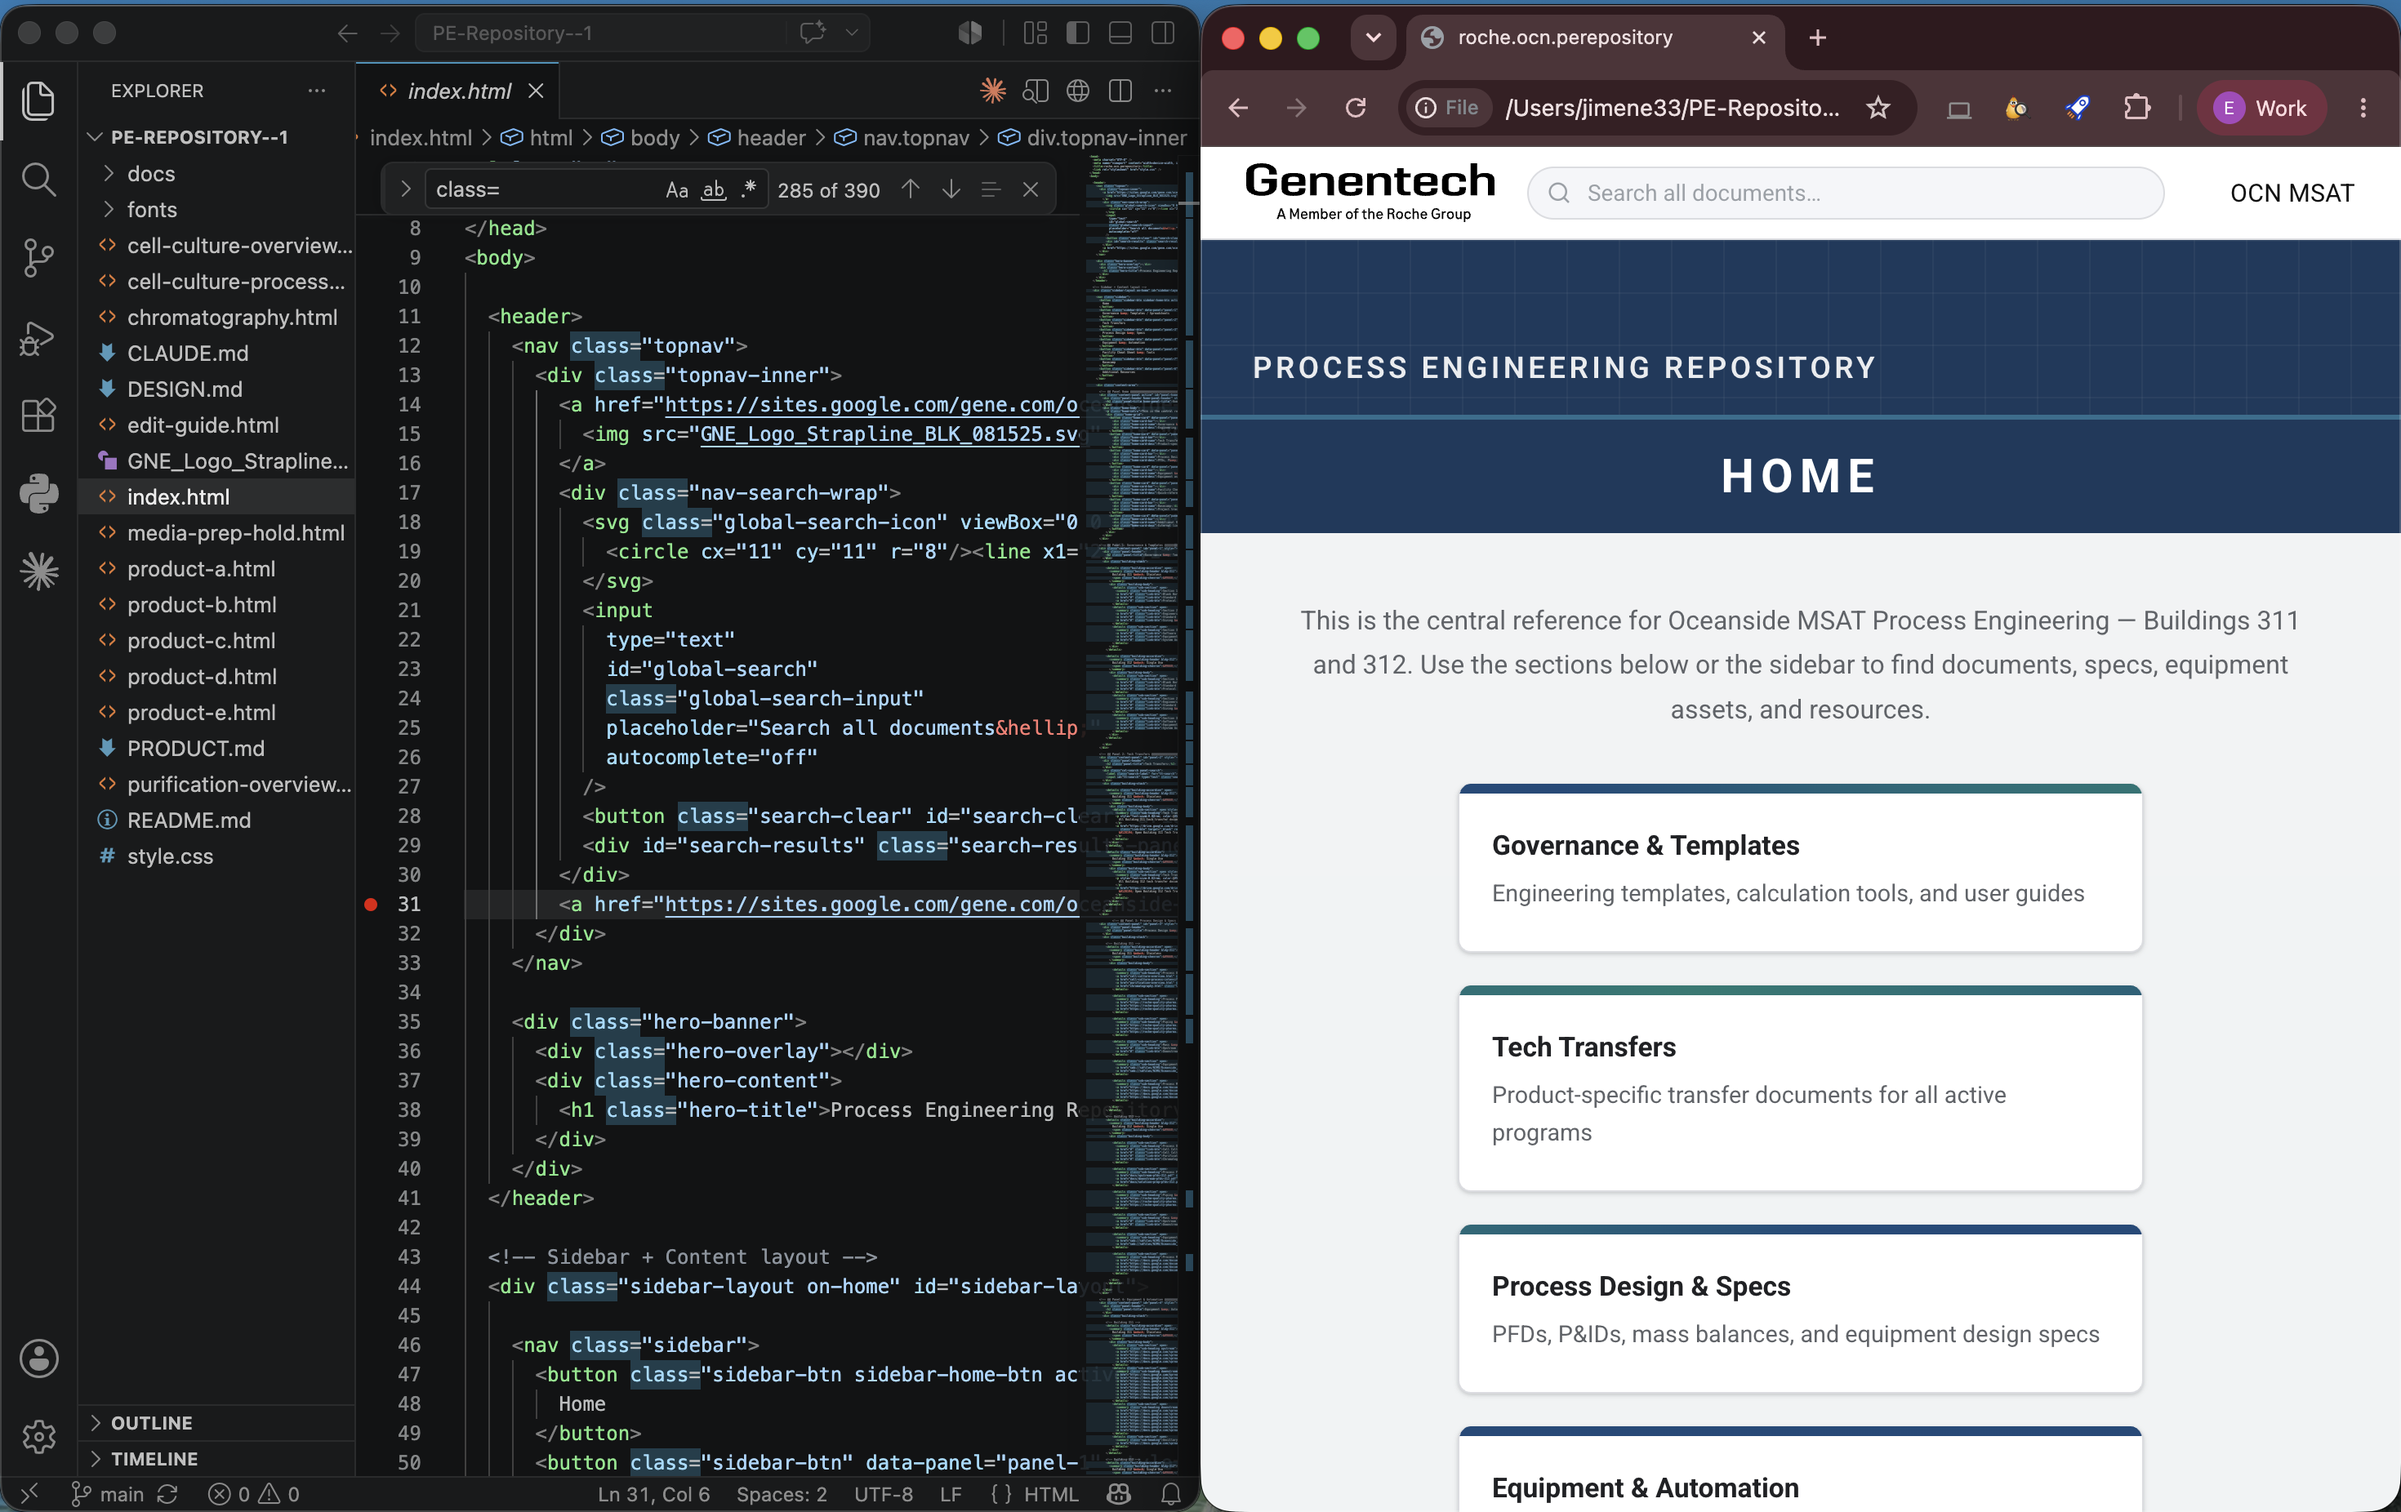
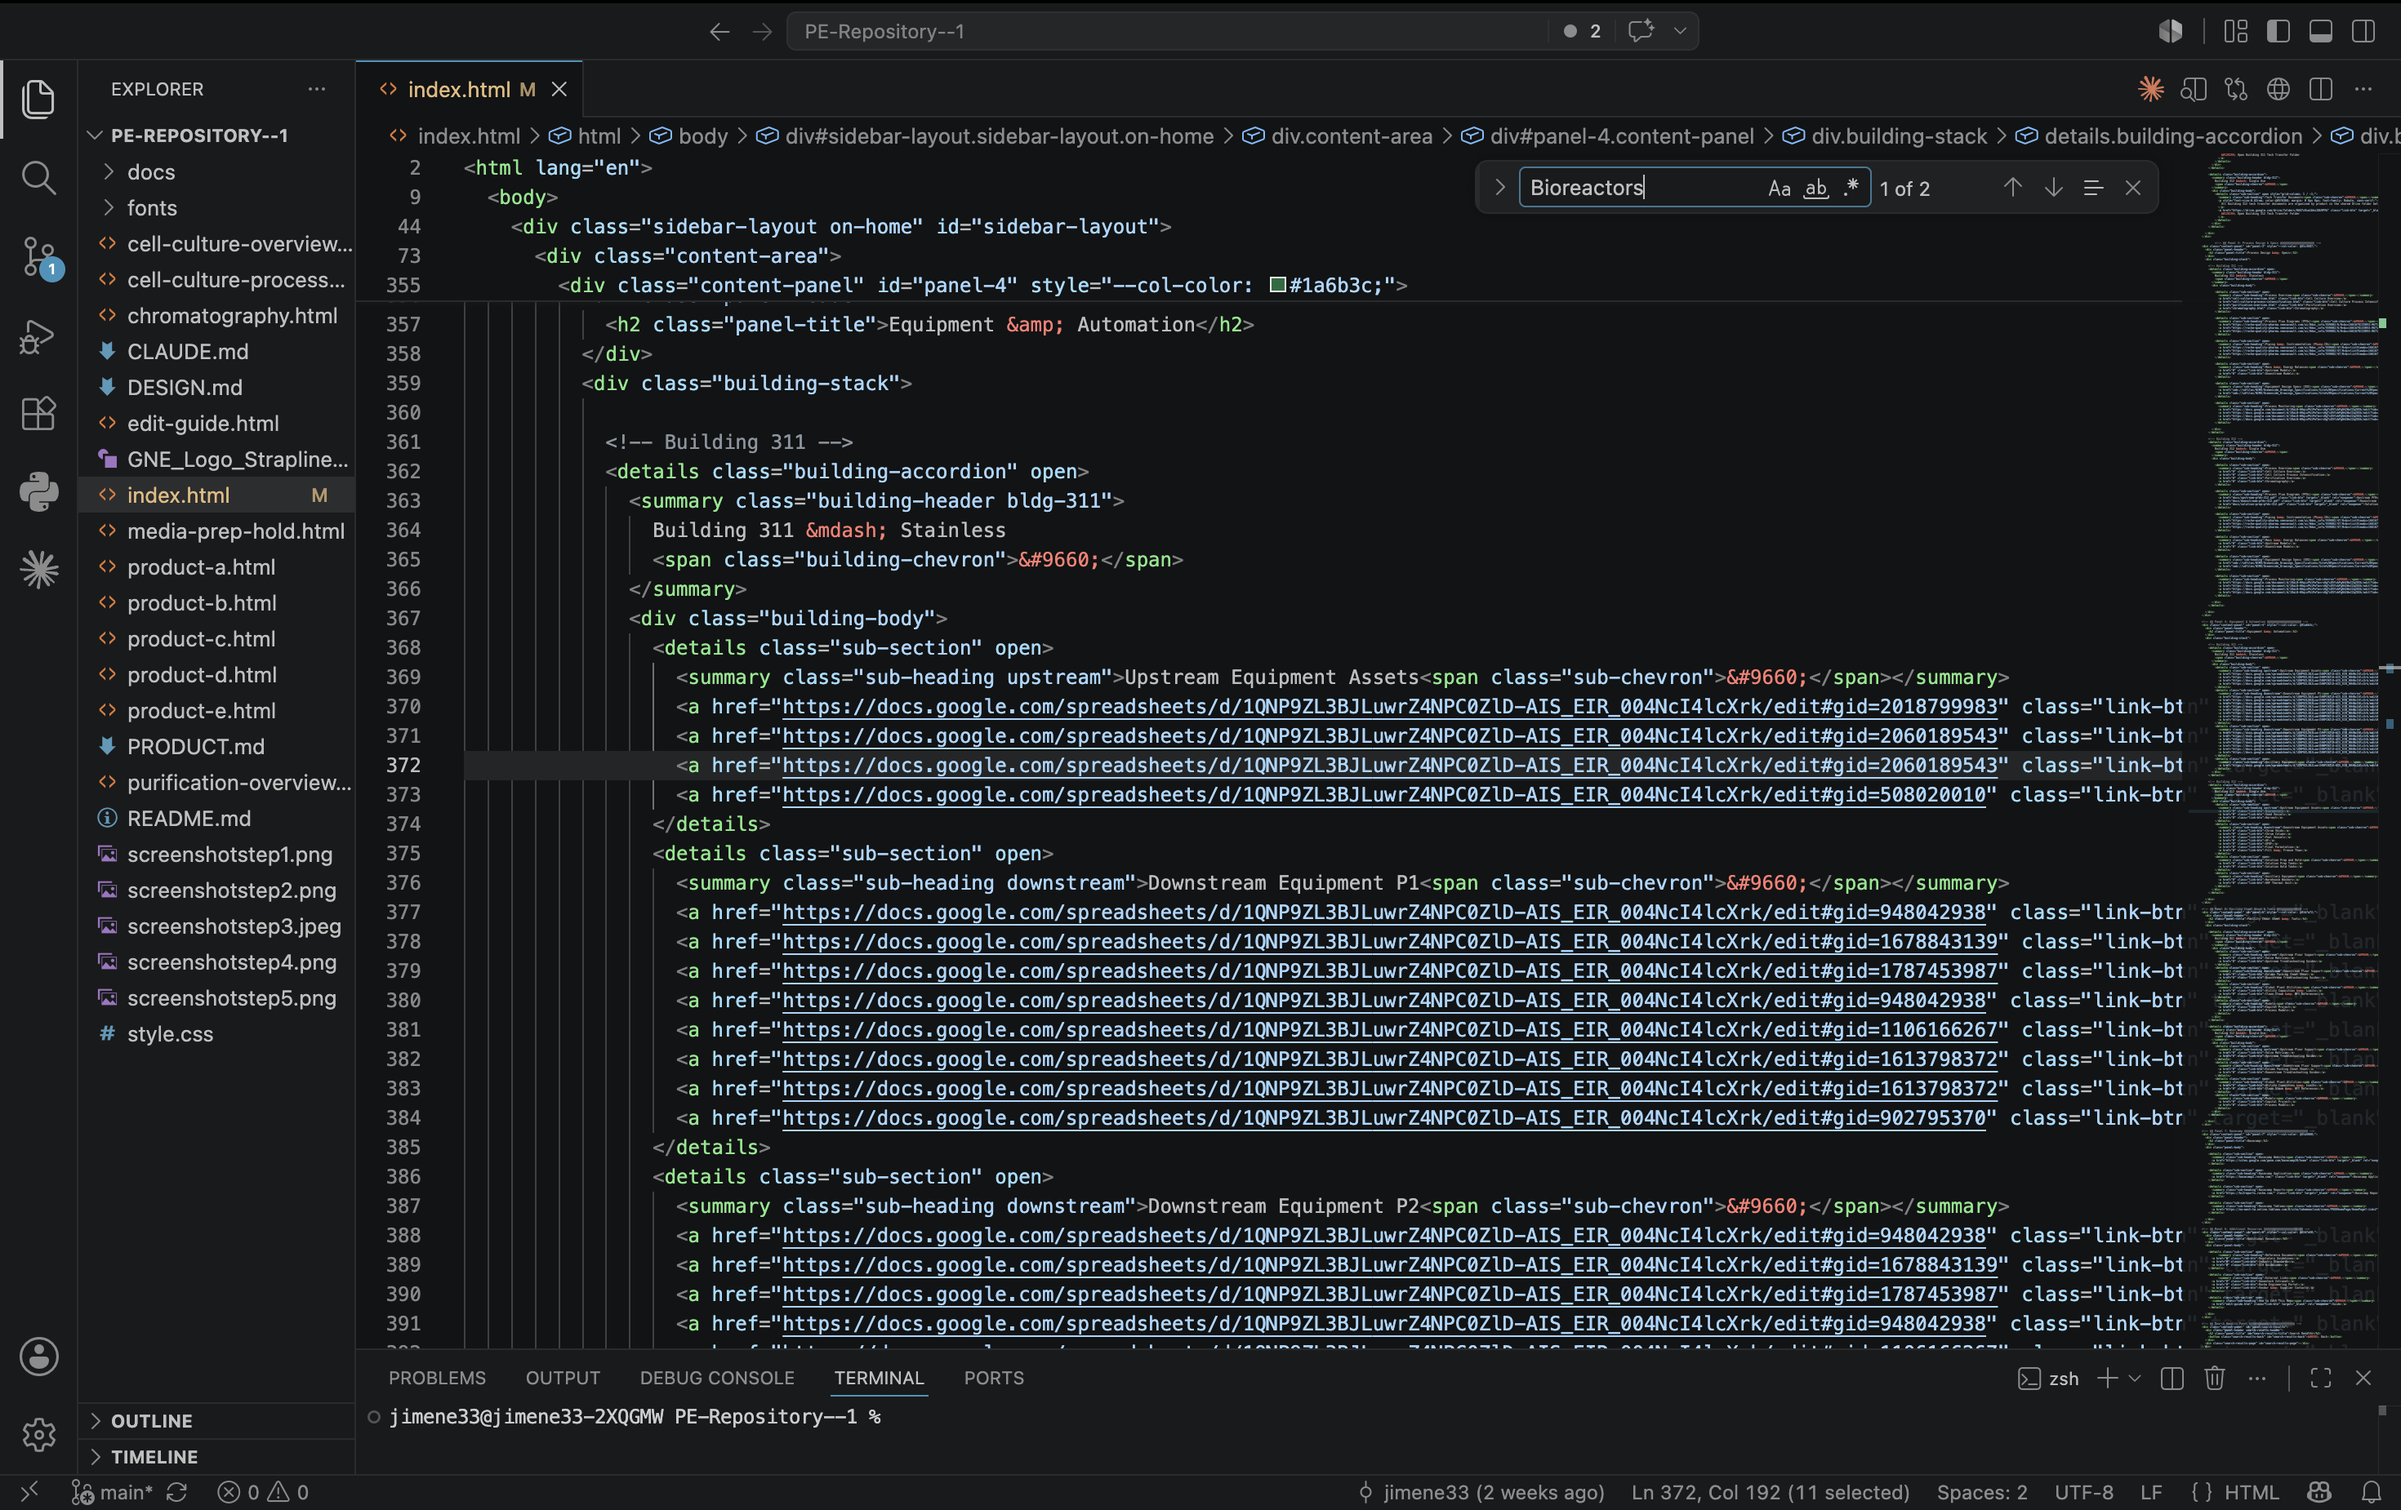
Update Building 312 equipment labels, step 2/3 guide screenshots, and home card description

diff --git a/index.html b/index.html
@@ -113,12 +113,13 @@
               <button class="home-card" data-panel="panel-6" style="--card-color: #2d7a50;">
                 <div class="home-card-bar"></div>
                 <div class="home-card-name">Additional Resources</div>
-                <div class="home-card-desc">External links, training materials, and supplemental references</div>
+                <div class="home-card-desc">External links and supplemental references</div>
               </button>
             </div>
           </div>
         </div>
 
+       
         <!-- ── Panel 1: Governance & Templates ───────────────────── -->
         <div class="content-panel" id="panel-1" style="--col-color: #1d4e89;">
           <div class="panel-header">
@@ -409,18 +410,17 @@
                 <details class="sub-section" open>
                   <summary class="sub-heading upstream">Upstream Equipment Assets<span class="sub-chevron">&#9660;</span></summary>
                   <a href="#" class="link-btn">Bioreactors</a>
-                  <a href="#" class="link-btn">Seed Vessels</a>
+                  <a href="#" class="link-btn">Waves</a>
                   <a href="#" class="link-btn">Harvest</a>
                 </details>
                 <details class="sub-section" open>
                   <summary class="sub-heading downstream">Downstream Equipment Assets<span class="sub-chevron">&#9660;</span></summary>
                   <a href="#" class="link-btn">Chrom Skids</a>
-                  <a href="#" class="link-btn">Chrom Column</a>
+                  <a href="#" class="link-btn">Pre-Packed Columns</a>
                   <a href="#" class="link-btn">Pool Vessels</a>
-                  <a href="#" class="link-btn">UF</a>
                   <a href="#" class="link-btn">UFDF</a>
                   <a href="#" class="link-btn">Final Formulation</a>
-                  <a href="#" class="link-btn">Fill &amp; Freeze Thaw</a>
+                  <a href="#" class="link-btn">Bulk Fill System</a>
                 </details>
                 <details class="sub-section" open>
                   <summary class="sub-heading">Solution Prep and Hold<span class="sub-chevron">&#9660;</span></summary>
@@ -429,8 +429,8 @@
                 </details>
                 <details class="sub-section" open>
                   <summary class="sub-heading">Ancillary Equipment<span class="sub-chevron">&#9660;</span></summary>
-                  <a href="#" class="link-btn">Warehouse Washers</a>
-                  <a href="#" class="link-btn">HOF Thermal Unit</a>
+                  <a href="#" class="link-btn">HOF FTU</a>
+                  <a href="#" class="link-btn">Freezers</a>
                 </details>
               </div>
             </details>

diff --git a/edit-guide.html b/edit-guide.html
@@ -118,7 +118,16 @@
         <pre>Before:  href="#"
 After:   href="https://your-sharepoint-or-google-link-here"</pre>
         <p>Make sure you only change the part inside the quotes — don't delete anything else on that line.</p>
-        <img src="screenshotstep3.jpeg" alt="Replacing a placeholder link with a real URL" style="width:100%;border-radius:6px;border:1px solid #dadce0;margin:12px 0;display:block;" />
+        <div style="display:grid;grid-template-columns:1fr 1fr;gap:16px;margin:12px 0;">
+          <div>
+            <div style="font-size:0.75rem;font-weight:700;text-transform:uppercase;letter-spacing:0.07em;color:#5f6368;margin-bottom:6px;">Before</div>
+            <img src="screenshotstep3-before.png" alt="Before — placeholder link with #" style="width:100%;border-radius:6px;border:1px solid #dadce0;display:block;" />
+          </div>
+          <div>
+            <div style="font-size:0.75rem;font-weight:700;text-transform:uppercase;letter-spacing:0.07em;color:#2d7a50;margin-bottom:6px;">After</div>
+            <img src="screenshotstep3-after.png" alt="After — real URL in place of #" style="width:100%;border-radius:6px;border:1px solid #dadce0;display:block;" />
+          </div>
+        </div>
       </div>
 
       <div class="guide-section">
